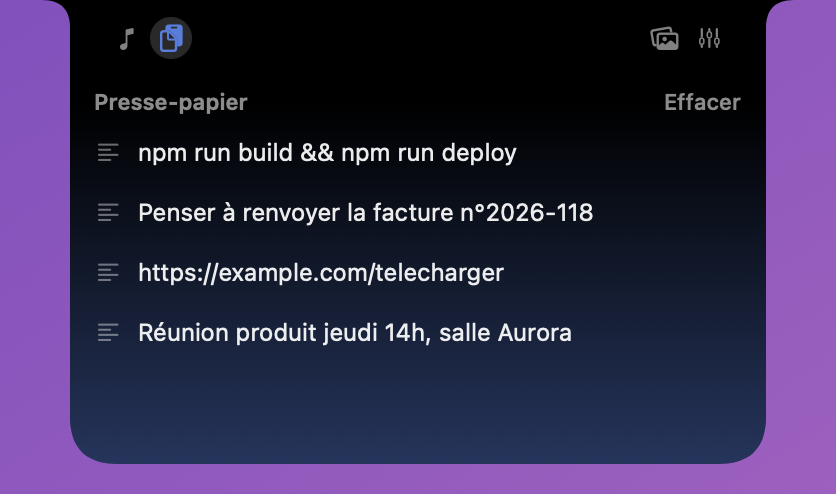
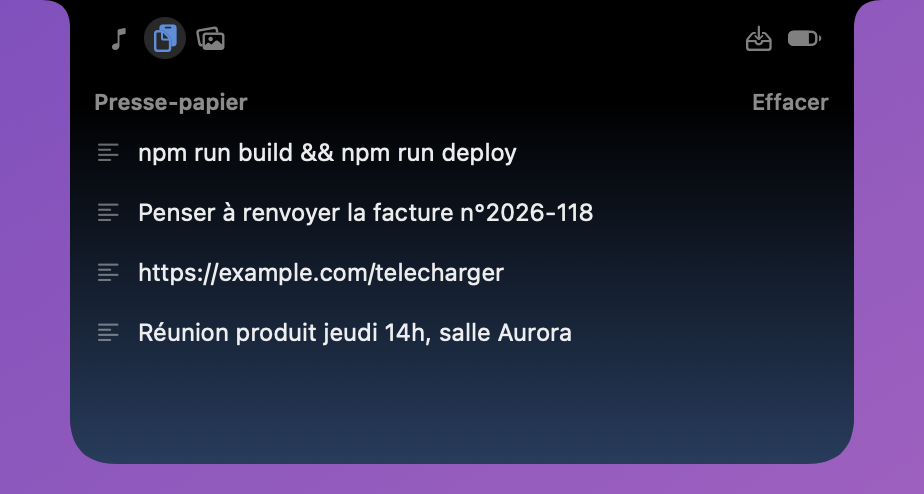
Version 2.1.0 : dépôt de fichiers, batterie et système, captures du README à jour

diff --git a/README.md b/README.md
@@ -29,6 +29,14 @@ Musique en cours, presse-papier, étendoir à captures, dépôt de fichiers, bat
 
 <sub>Presse-papier</sub>
 
+<img src="docs/files.png" width="460" alt="Le dépôt de fichiers : fichiers accrochés à la corde à linge">
+
+<sub>Dépôt de fichiers</sub>
+
+<img src="docs/system.png" width="420" alt="Batterie et système : niveau de batterie, processeur, mémoire et disque">
+
+<sub>Batterie et système</sub>
+
 <br>
 
 <img src="docs/compact.png" width="460" alt="L'encoche au repos : pochette à gauche, visualiseur à droite">
